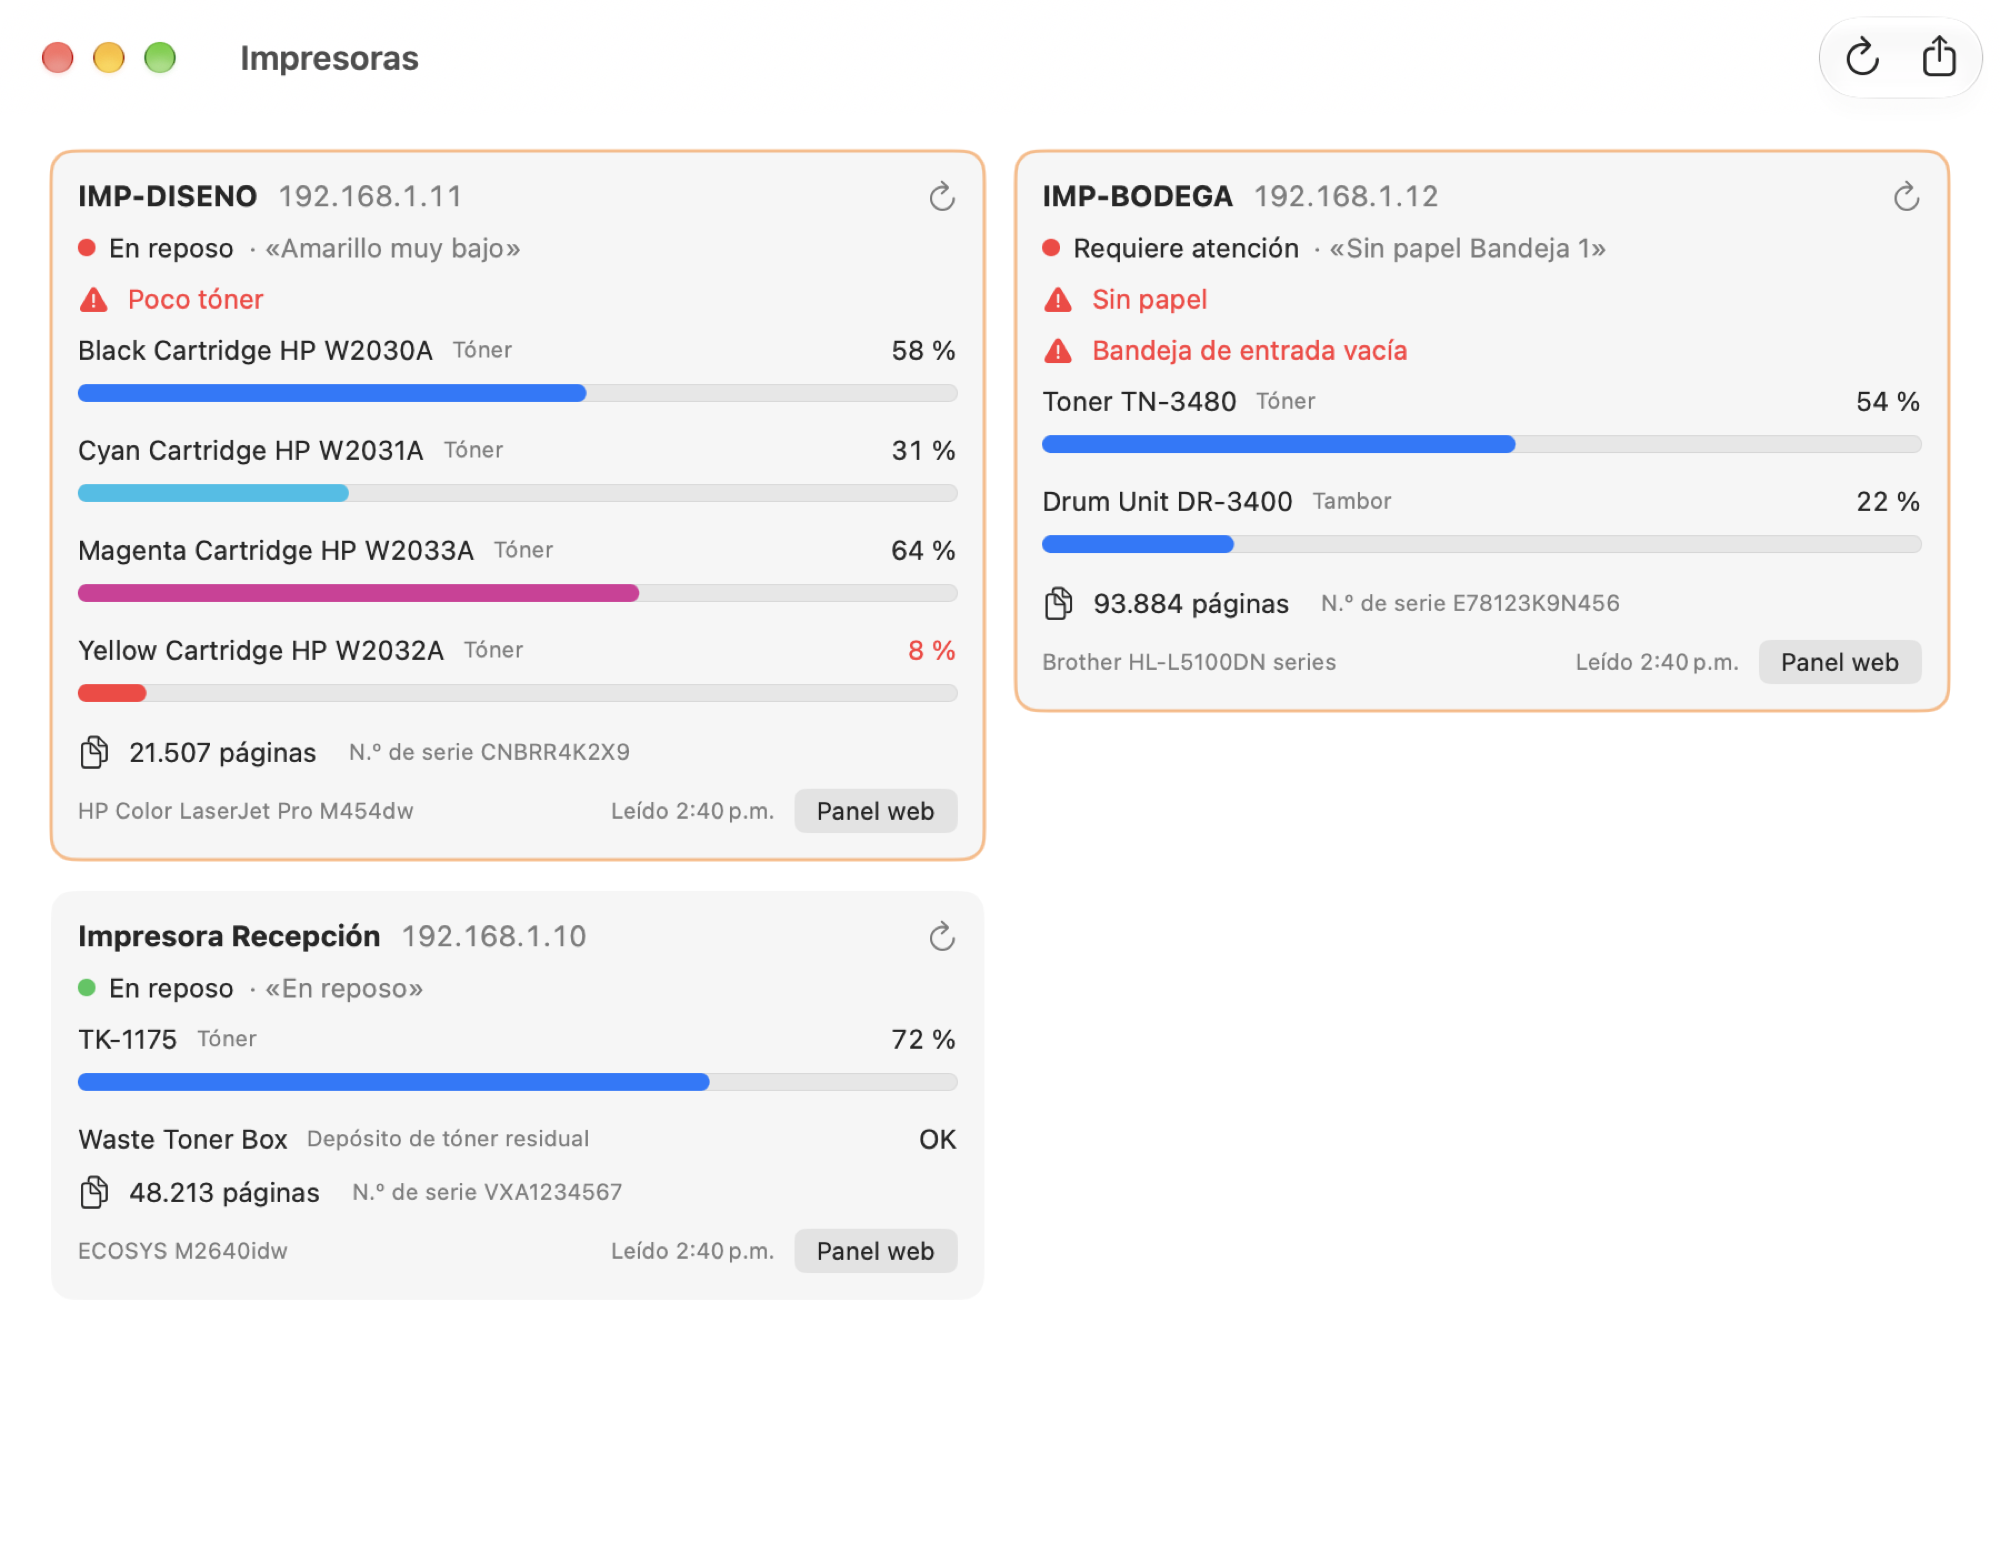
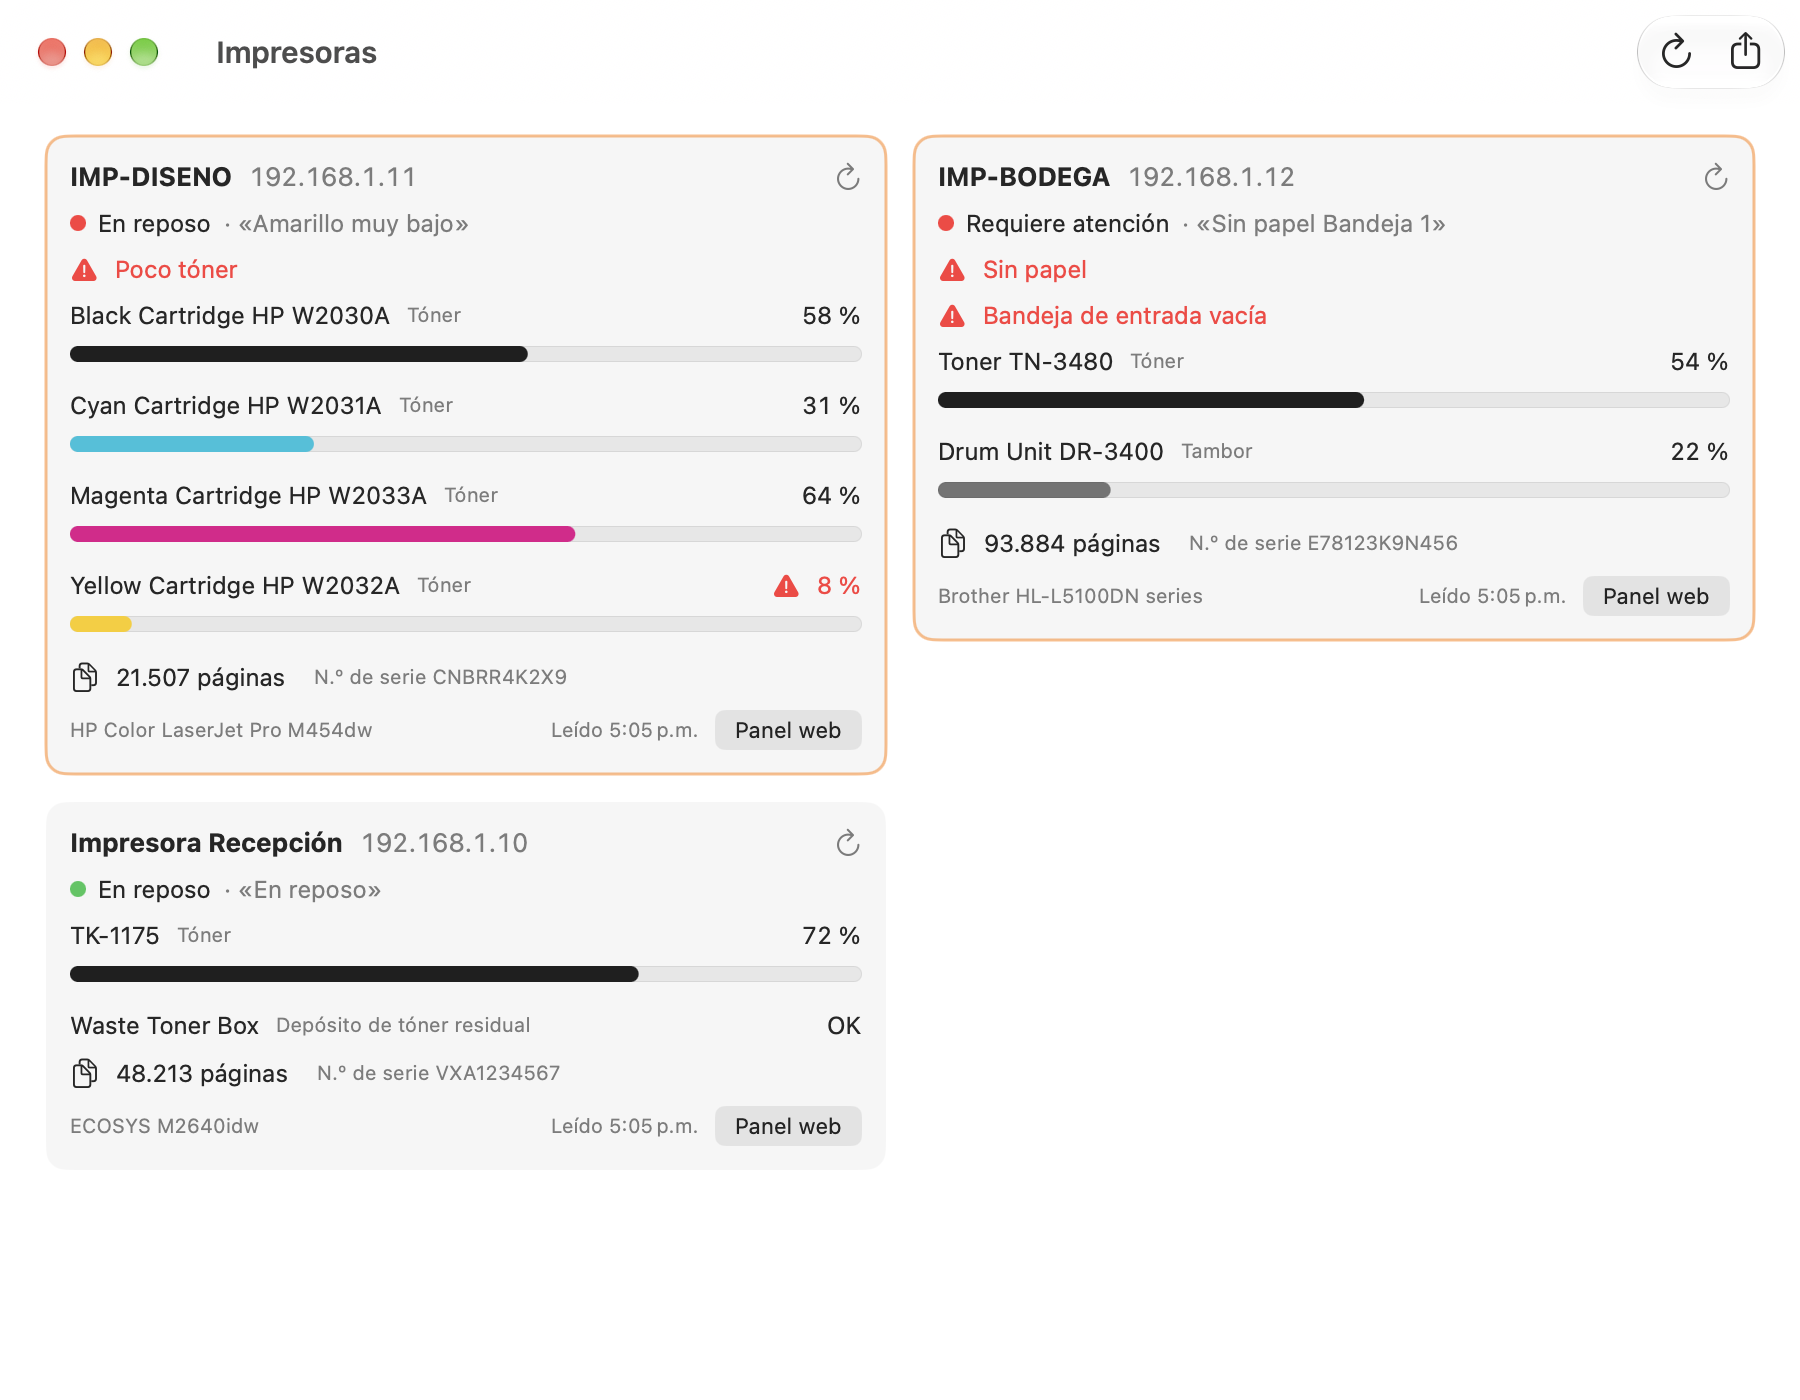
Impresoras: las barras muestran el color real de cada consumible
Negro, cian, magenta y amarillo se pintan con su color aunque el nivel esté bajo; el aviso de nivel bajo pasa al porcentaje. Tambor, fusor y otros consumibles sin colorante se muestran en gris.

diff --git a/Sources/PrintersView.swift b/Sources/PrintersView.swift
@@ -59,28 +59,48 @@ struct PrinterStatusView: View {
 
     private func supplyRow(_ s: PrinterSupply) -> some View {
         let pct = s.percent
-        let tint: Color = s.isWaste ? .gray : (pct.map { $0 <= 10 ? .red : ($0 <= 20 ? .orange : colorFor(s)) } ?? .gray)
+        // La barra siempre lleva el color del consumible; el nivel bajo se marca en el porcentaje.
+        let low = !s.isWaste && (pct.map { $0 <= 20 } ?? false)
+        let warn: Color = (pct ?? 100) <= 10 ? .red : .orange
         return VStack(alignment: .leading, spacing: 2) {
             HStack {
                 Text(s.description).lineLimit(1)
                 Text(s.typeName).font(.caption).foregroundStyle(.secondary)
                 Spacer()
-                Text(s.levelText).monospacedDigit().foregroundStyle(pct.map { $0 <= 20 && !s.isWaste } == true ? tint : .primary)
+                if low { Image(systemName: "exclamationmark.triangle.fill").foregroundStyle(warn) }
+                Text(s.levelText).monospacedDigit().foregroundStyle(low ? warn : .primary)
             }
             .font(.callout)
             if let pct {
-                ProgressView(value: Double(pct), total: 100).tint(tint)
+                ProgressView(value: Double(pct), total: 100).tint(SupplyColor.of(s))
             }
         }
     }
+}
 
-    private func colorFor(_ s: PrinterSupply) -> Color {
-        let c = (s.colorant ?? s.description).lowercased()
-        if c.contains("cyan") { return .cyan }
-        if c.contains("magenta") { return Color(red: 0.85, green: 0.2, blue: 0.6) }
-        if c.contains("yellow") || c.contains("amarill") { return .yellow }
-        return .accentColor
+/// Color de la barra según el colorante del consumible (cian, magenta, amarillo, negro…).
+enum SupplyColor {
+    static let black = Color(white: 0.12)
+    static let gray = Color(white: 0.55)
+    static let cyan = Color(red: 0.0, green: 0.76, blue: 0.86)
+    static let magenta = Color(red: 0.89, green: 0.0, blue: 0.55)
+    static let yellow = Color(red: 0.98, green: 0.80, blue: 0.0)
+    static let neutral = Color.secondary
+
+    static func of(_ s: PrinterSupply) -> Color {
+        if s.isWaste { return neutral }
+        let text = "\(s.colorant ?? "") \(s.description)".lowercased()
+        let light = ["light", "claro", "photo cyan", "photo magenta"].contains { text.contains($0) }
+        if has(text, ["cyan", "cian"]) { return light ? cyan.opacity(0.55) : cyan }
+        if has(text, ["magenta"]) { return light ? magenta.opacity(0.55) : magenta }
+        if has(text, ["yellow", "amarill", "jaune", "gelb"]) { return yellow }
+        if has(text, ["gray", "grey", "gris"]) { return gray }
+        if has(text, ["black", "negro", "noir", "schwarz"]) { return black }
+        // Tambor, fusor, kit de mantenimiento o colorante desconocido: color neutro.
+        return neutral
     }
+
+    private static func has(_ text: String, _ words: [String]) -> Bool { words.contains { text.contains($0) } }
 }
 
 // MARK: - Ventana de impresoras
